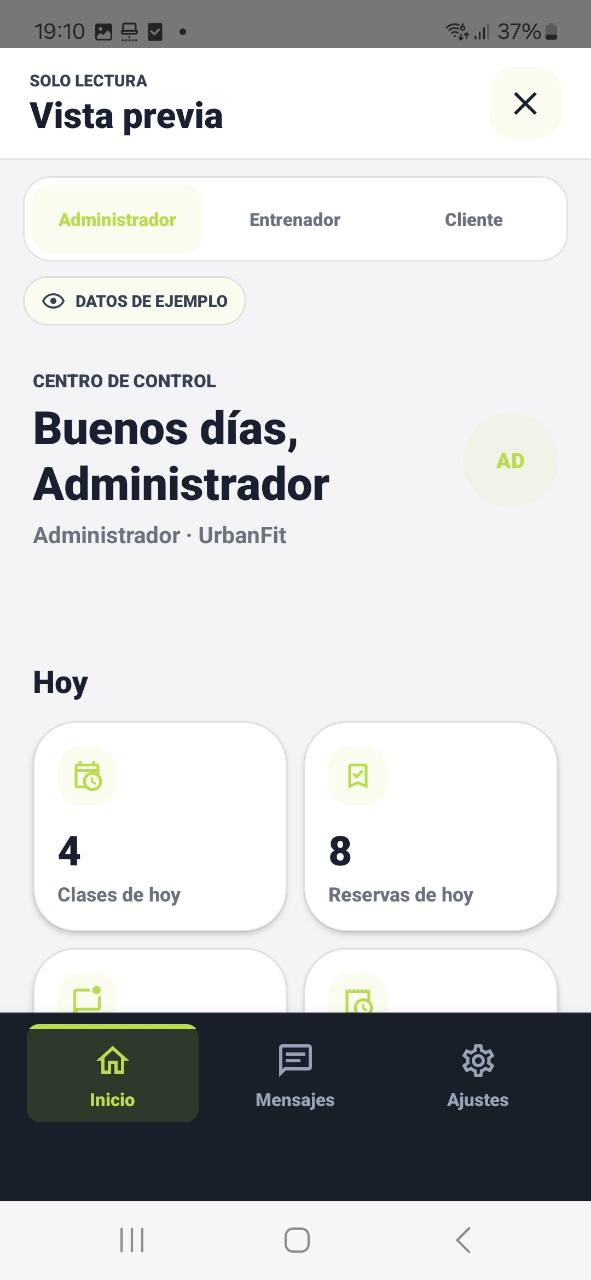
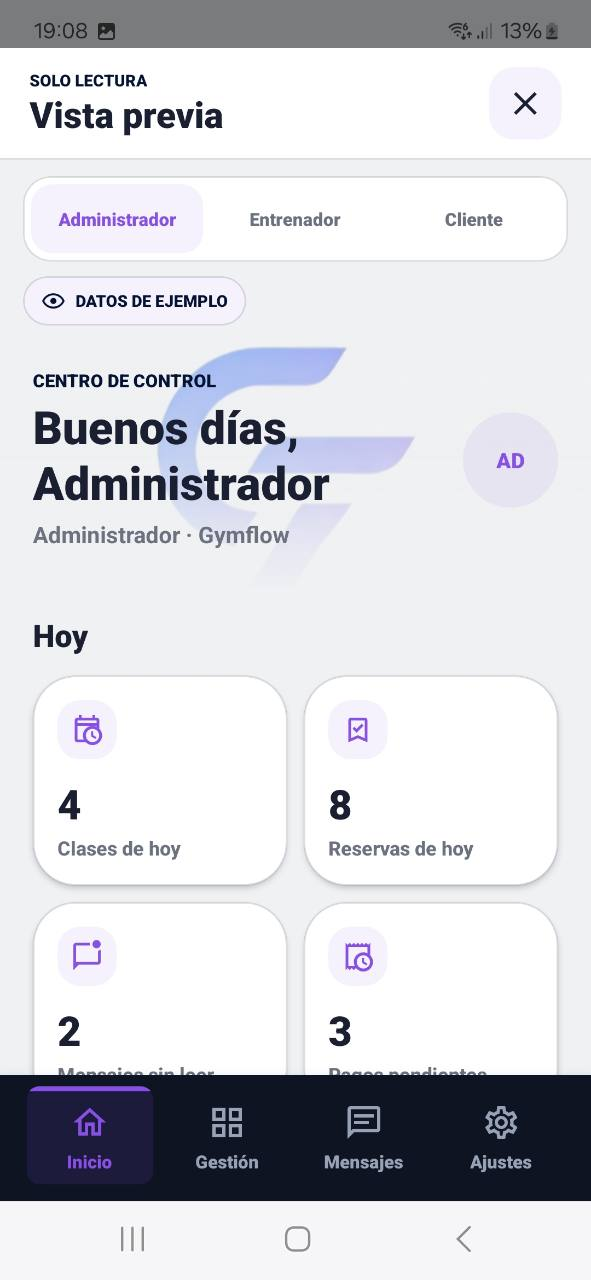
docs: actualizar presentacion visual del proyecto

diff --git a/README.md b/README.md
@@ -3,7 +3,7 @@
 </p>
 
 <p align="center">
-  Plataforma móvil para gestionar centros deportivos, conectar a su equipo y facilitar la experiencia de sus clientes.
+  Plataforma full stack para gestionar centros deportivos, coordinar al equipo y ofrecer una experiencia móvil cuidada a sus clientes.
 </p>
 
 <p align="center">
@@ -14,33 +14,39 @@
   <img alt="MySQL" src="https://img.shields.io/badge/MySQL-9-4479A1?logo=mysql&logoColor=white" />
 </p>
 
-## El proyecto
+## El producto
 
-GymFlow es un proyecto full stack orientado a la gestión diaria de un gimnasio. Reúne en una sola aplicación la programación de clases, reservas, rutinas, pagos, comunicación, altas de usuarios y personalización del centro.
+GymFlow centraliza la operativa diaria de un gimnasio: programación de clases, reservas, rutinas, pagos, comunicación, altas de usuarios y personalización del centro.
 
-La interfaz ofrece experiencias diferenciadas para **administradores**, **entrenadores** y **clientes**, mientras que el backend aplica permisos y aislamiento de datos por gimnasio.
+La aplicación adapta navegación, información y acciones a **administradores**, **entrenadores** y **clientes**. Detrás de la interfaz, la API conserva la autoridad sobre la identidad, los permisos y el aislamiento de datos de cada gimnasio.
+
+El resultado es una primera versión funcional que combina diseño de producto móvil, modelado de dominio, persistencia, seguridad y pruebas automatizadas.
 
 > Estado: primera versión funcional completada y en pausa planificada. Es un proyecto de porfolio, no un servicio desplegado en producción.
 
-## Vistas principales
+## Experiencia móvil
 
 <p align="center">
-  <img src="docs/screenshots/admin-dashboard.jpg" alt="Panel del administrador" width="29%" />
-  <img src="docs/screenshots/trainer-dashboard.jpg" alt="Panel del entrenador" width="29%" />
-  <img src="docs/screenshots/client-dashboard.jpg" alt="Panel del cliente" width="29%" />
+  <img src="docs/screenshots/splash-screen.jpg" alt="Pantalla de carga de GymFlow" width="28%" />
+  &nbsp;&nbsp;
+  <img src="docs/screenshots/login-screen.jpg" alt="Inicio de sesión e invitaciones de GymFlow" width="28%" />
 </p>
 
 <p align="center">
-  <em>Previsualizaciones neutrales con datos de ejemplo para cada rol.</em>
+  <em>Identidad de producto, acceso por credenciales y entrada mediante invitación del gimnasio.</em>
 </p>
 
 <p align="center">
-  <img src="docs/screenshots/admin-management.jpg" alt="Gestión centralizada del gimnasio" width="34%" />
+  <img src="docs/screenshots/admin-dashboard.jpg" alt="Vista previa del panel de administración" width="29%" />
+  <img src="docs/screenshots/trainer-dashboard.jpg" alt="Vista previa del panel de entrenador" width="29%" />
+  <img src="docs/screenshots/client-dashboard.jpg" alt="Vista previa del panel de cliente" width="29%" />
 </p>
 
 <p align="center">
-  <em>Acceso administrativo organizado por áreas y métricas relevantes.</em>
+  <em>Tres experiencias coherentes, con navegación y prioridades propias para cada rol.</em>
 </p>
+
+Las capturas utilizan datos de ejemplo y muestran únicamente la entrada y el punto de partida del producto. El resto de flujos se resume a continuación sin convertir el README en un recorrido completo por la aplicación.
 
 ## Funcionalidades destacadas
 
